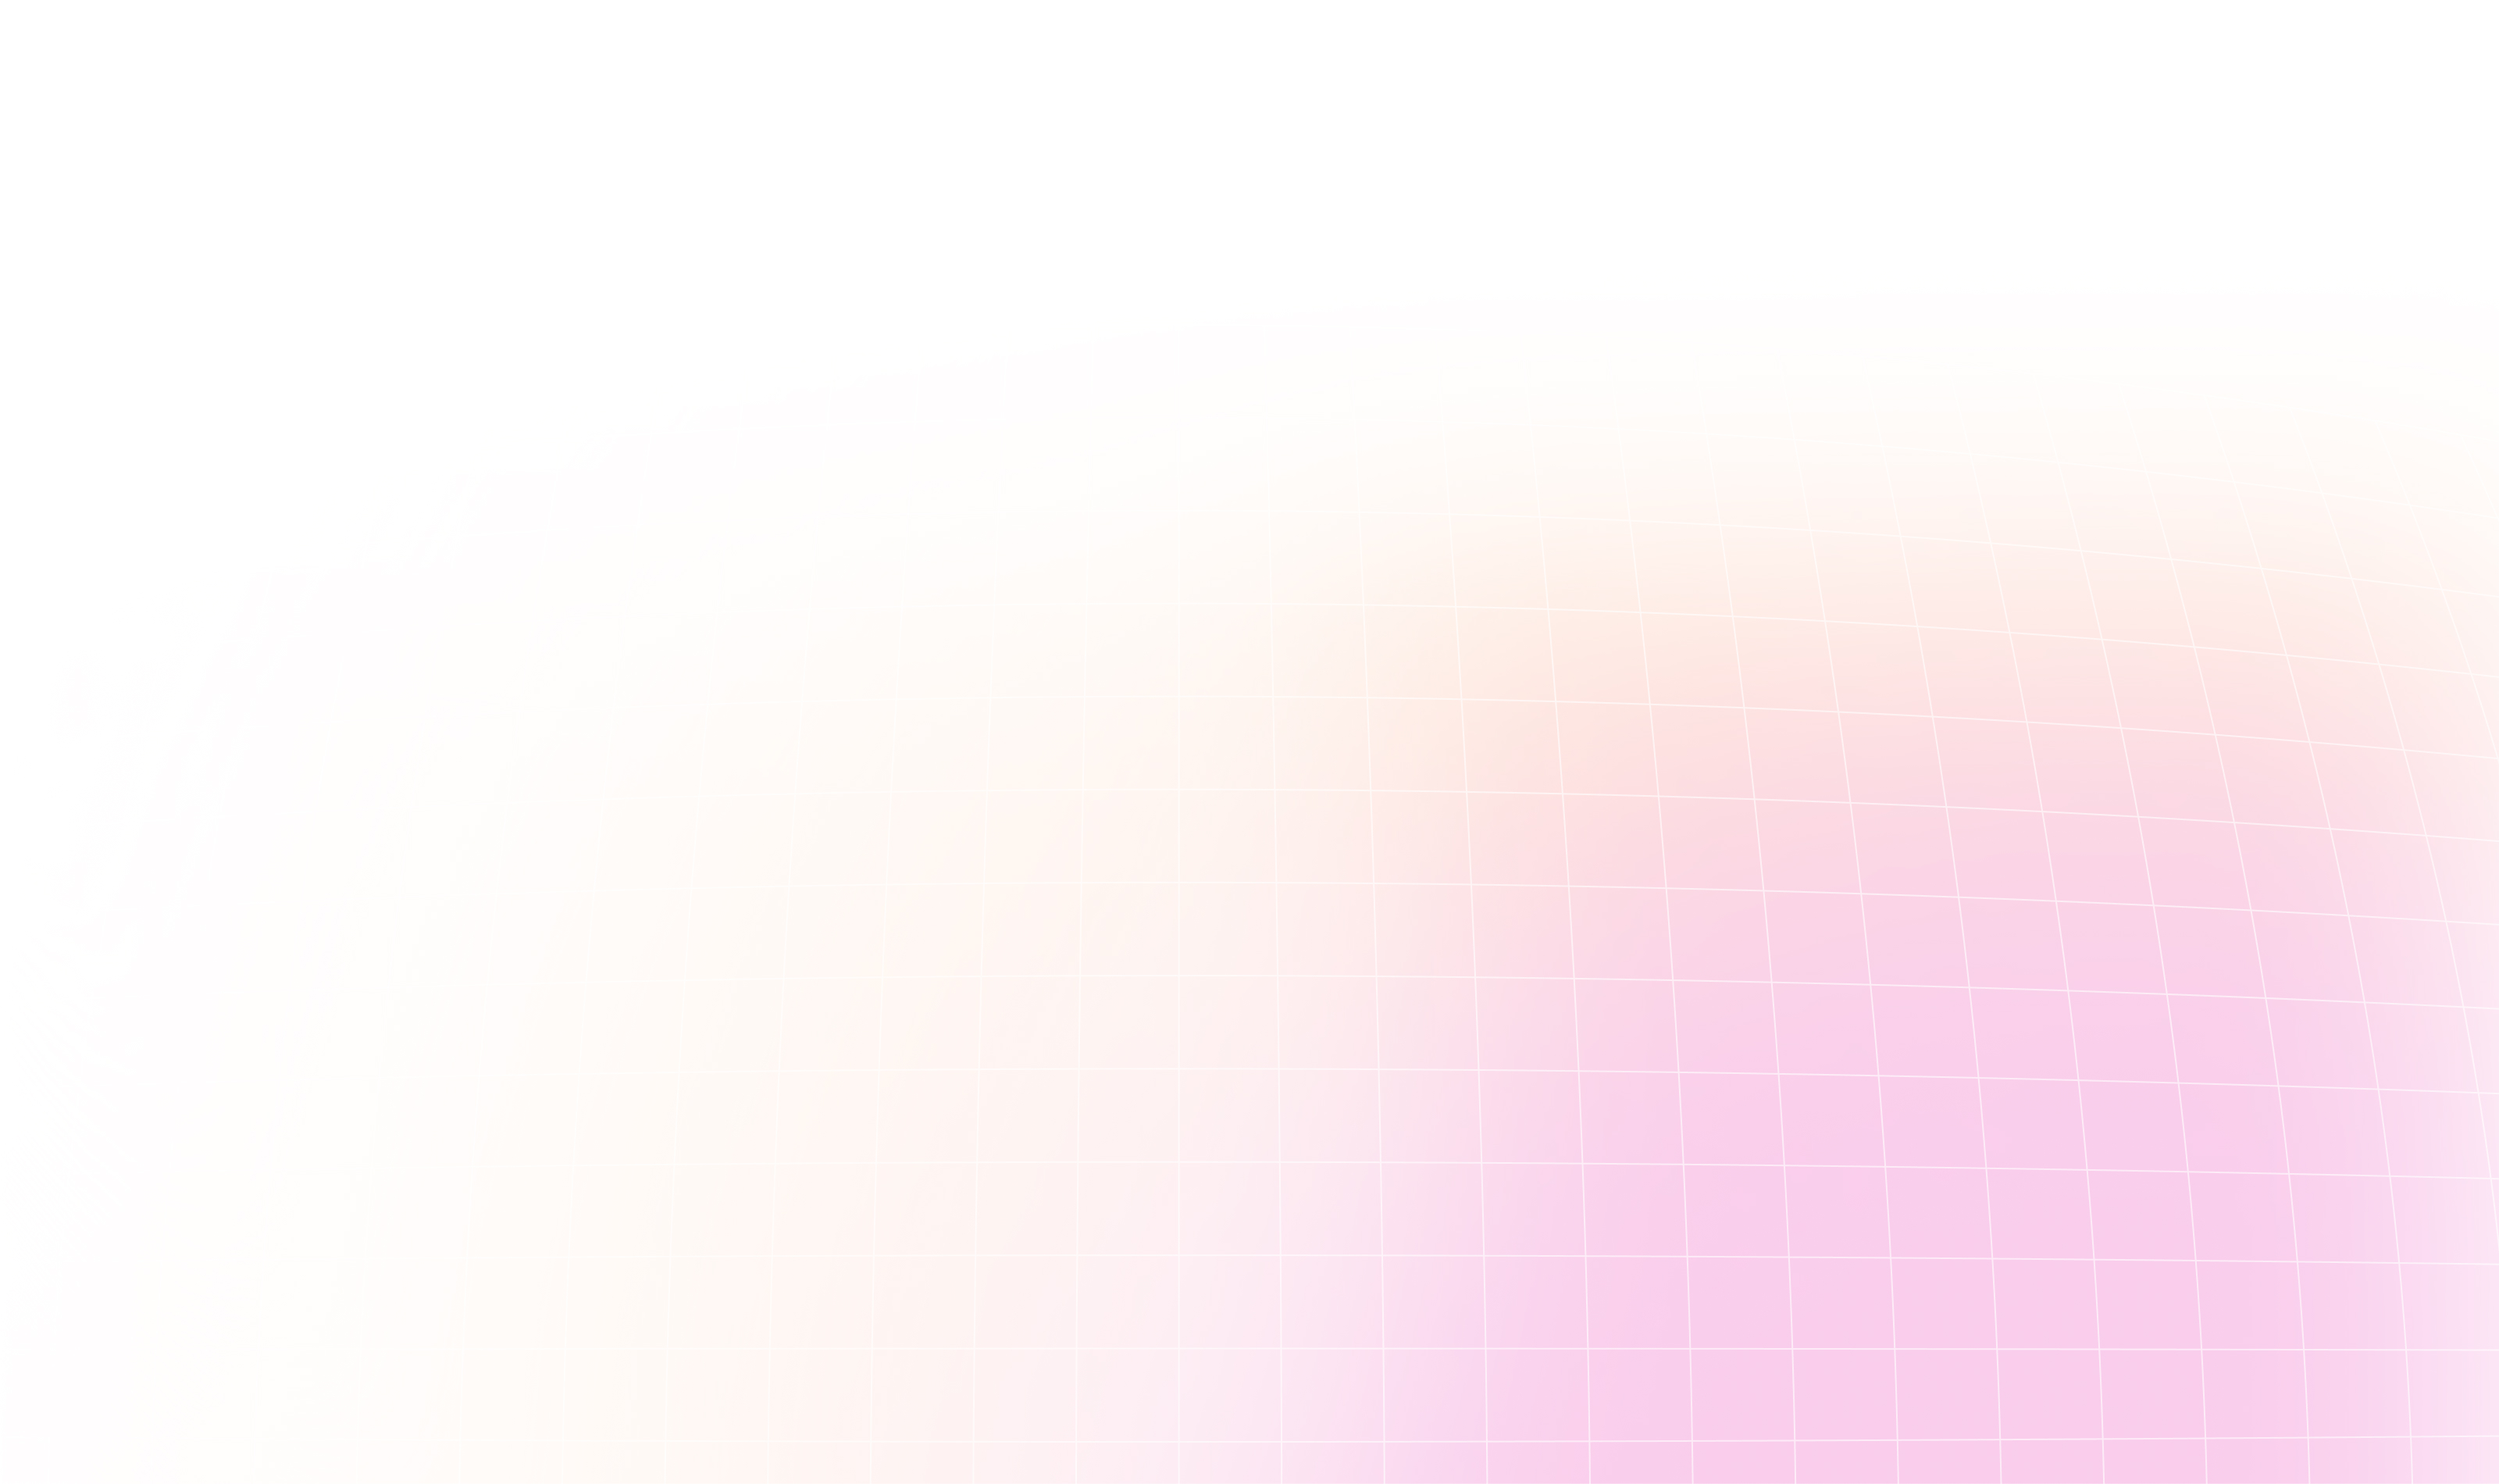
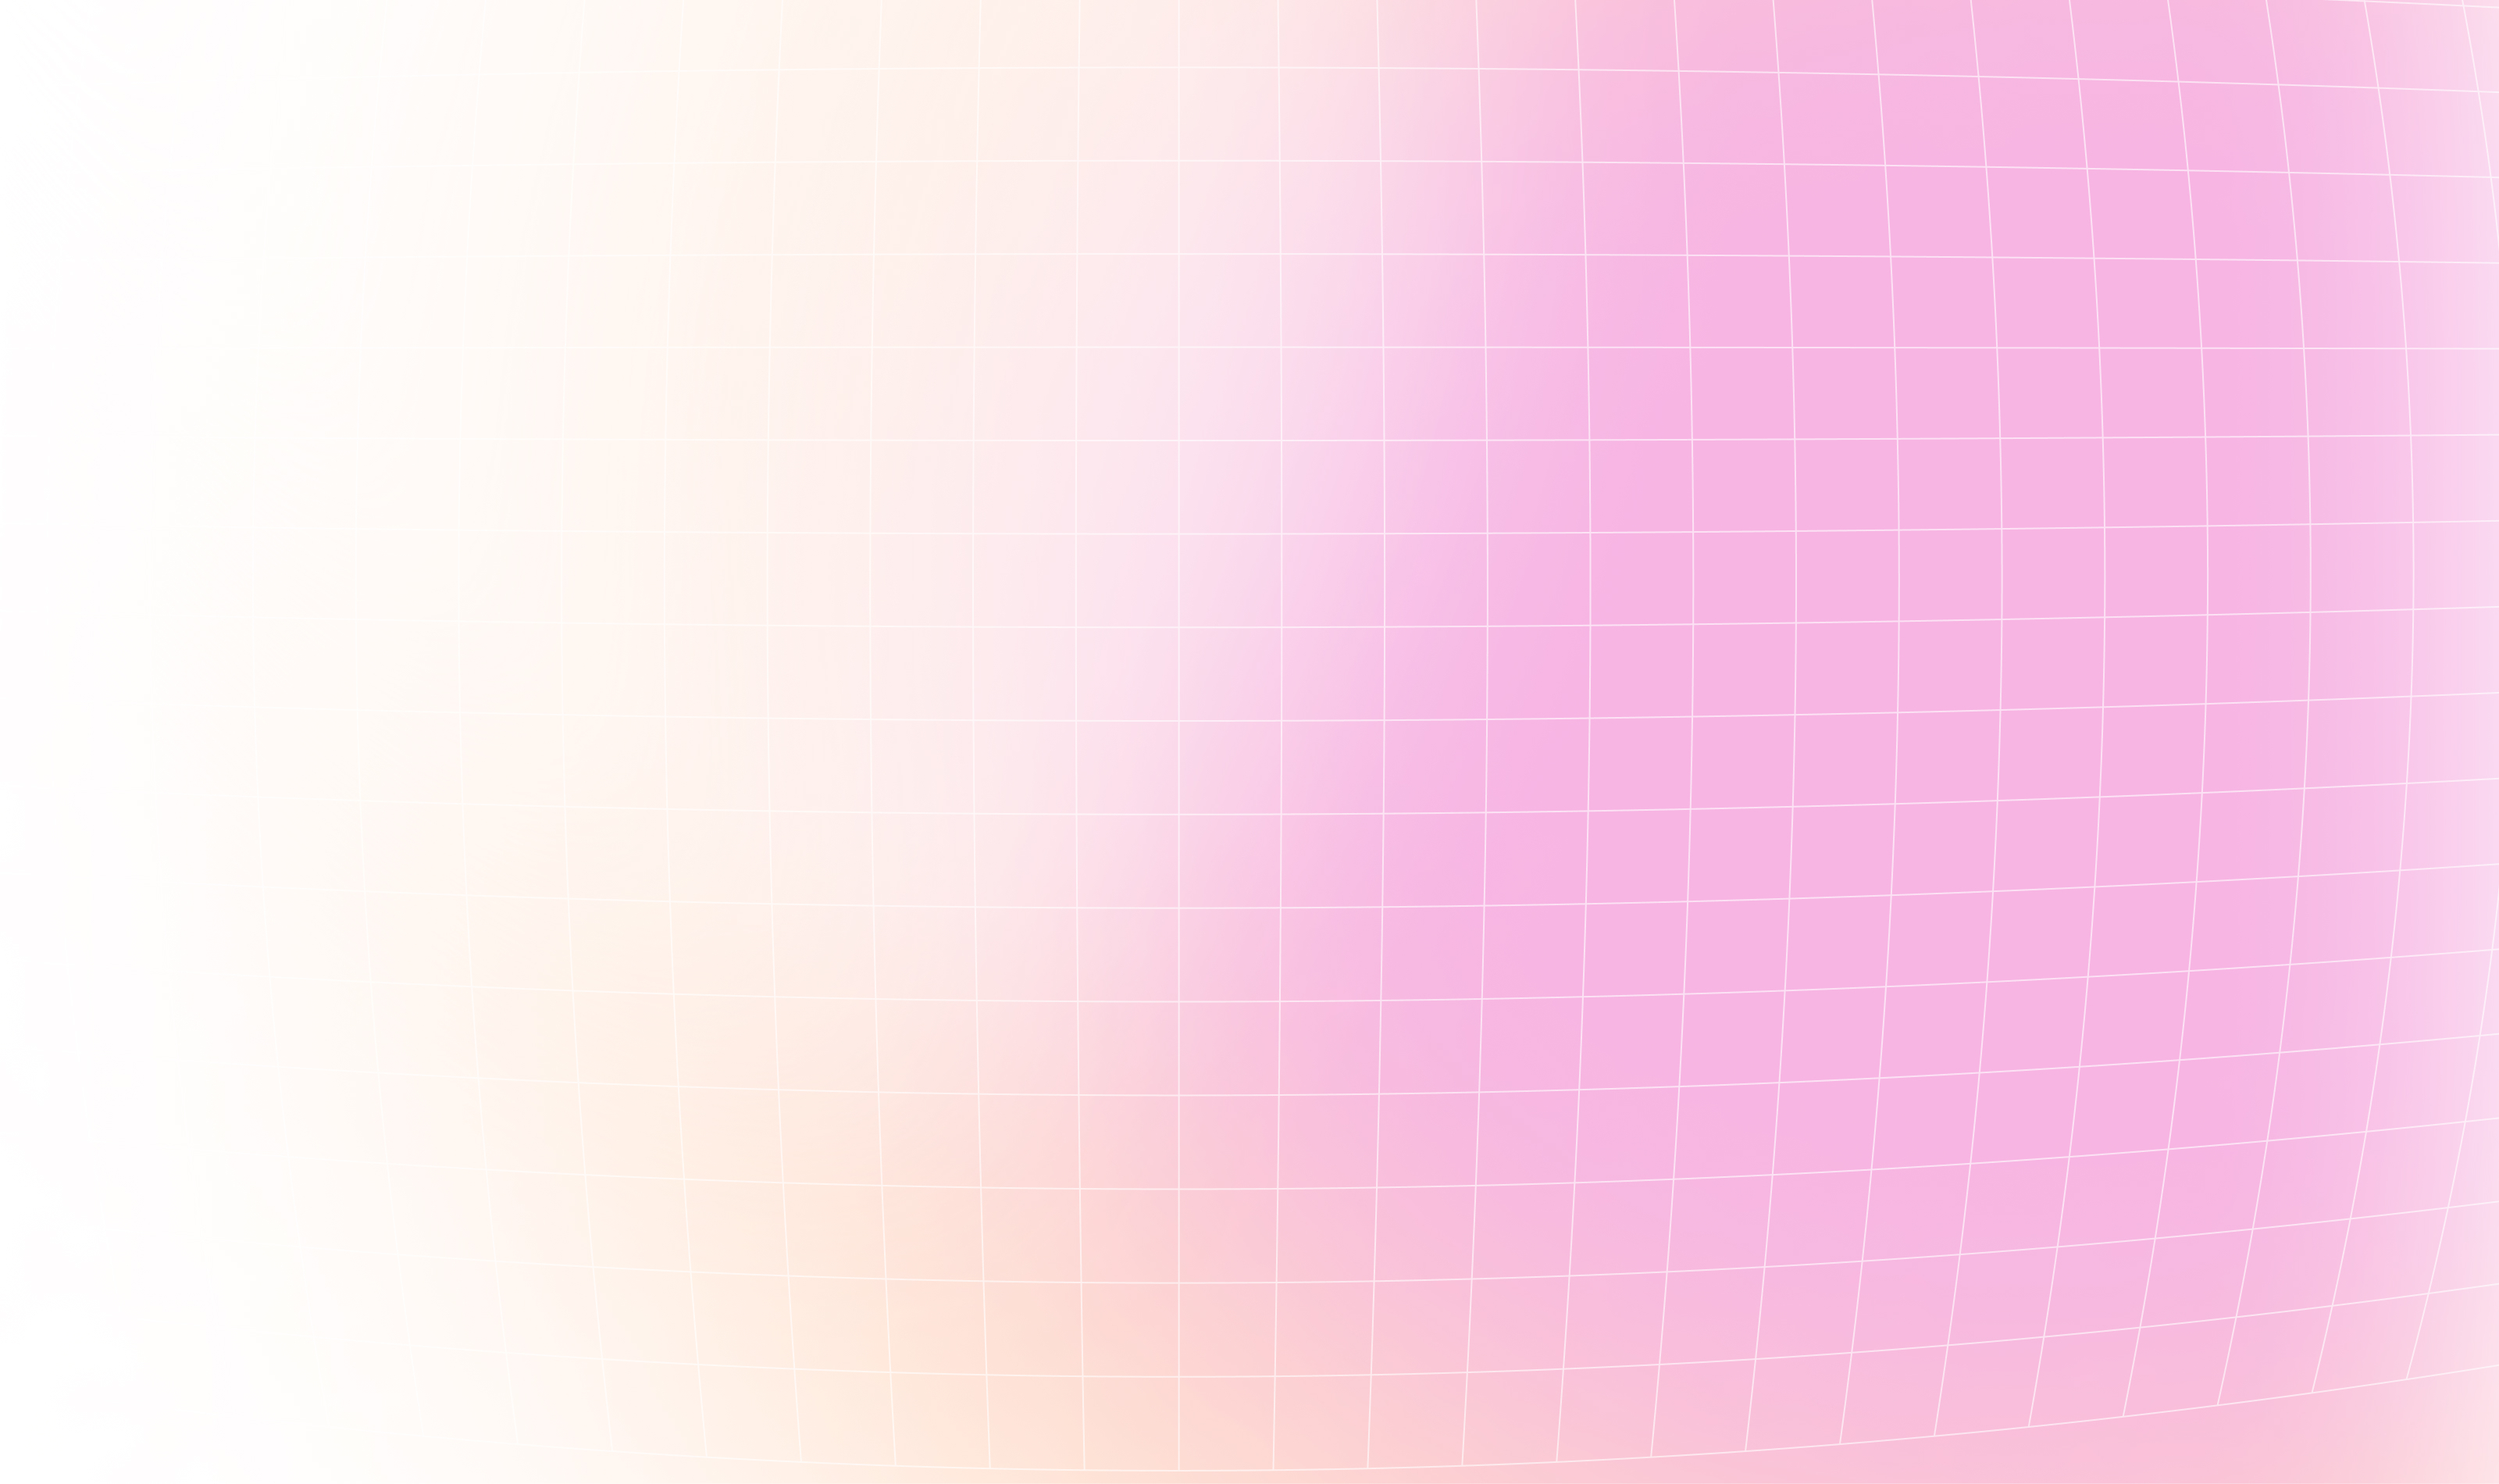
docs: update the light bg hero image

diff --git a/site/index.md b/site/index.md
@@ -8,49 +8,50 @@ description: Everything you need to build 4337 accounts for your users
 # you can also add HTML or Markdown components below the --- line to add custom HTML or Markdown content (eg: https://github.com/wagmi-dev/viem/blob/main/site/index.md?plain=1)
 ---
 
-<div class="flex flex-col gap-[84px] h-screen max-xl:gap-[40px] bg-hero-light dark:bg-hero-dark">
-  <div class="flex grow max-w-[calc(var(--vp-layout-max-width))] self-center w-[100%] px-[32px]">
-    <div class="flex flex-col flex-auto min-w-[100%]">
-      <div
-        class="flex flex-col py-[96px] max-xl:py-[40px]"
-      >
+<div class="flex flex-col h-screen">
+  <div class="w-[100%] flex flex-grow h-[100%] justify-center  bg-hero-light dark:bg-hero-dark bg-cover pb-[48px]">
+    <div class="flex grow max-w-[calc(var(--vp-layout-max-width))] w-[100%] px-[32px]">
+      <div class="flex flex-col flex-auto min-w-[100%]">
         <div
-          class="flex flex-row justify-between items-center self-stretch md:max-xl:flex-col md:max-xl:gap-[40px]"
+          class="flex flex-col py-[96px] max-xl:py-[40px]"
         >
           <div
-            class="w-[579px] flex flex-col gap-[32px] justify-between max-md:items-center"
+            class="flex flex-row justify-between items-center self-stretch md:max-xl:flex-col md:max-xl:gap-[40px]"
           >
             <div
-              class="flex flex-row items-center justify-start gap-[16px] font-bold text-[24px]"
+              class="w-[579px] flex flex-col gap-[32px] justify-between max-md:items-center"
             >
-              <img src="/kit-logo.svg" alt="Account Kit Logo" />
-              <span>Account Kit</span>
+              <div
+                class="flex flex-row items-center justify-start gap-[16px] font-bold text-[24px]"
+              >
+                <img src="/kit-logo.svg" alt="Account Kit Logo" />
+                <span>Account Kit</span>
+              </div>
+              <div
+                class="gap-[28px] text-[64px] font-bold items-end color max-md:text-center max-md:text-[56px] leading-none"
+              >
+                <span class="bg-gradient-1 bg-clip-text transparent-text-fill">Account Abstraction</span>&nbsp;Legos
+              </div>
+              <div class="text-[22px] font-normal max-md:text-center">
+                Everything you need to build 4337 accounts.
+              </div>
+              <div class="flex flex-row gap-[8px] justify-start items-center">
+                <a rel="noopener noreferrer" href="./getting-started.html">
+                  <button
+                    class="flex items-center rounded-md px-[12px] py-[12px] text-[16px] font-semibold text-white transition duration-300 ease-in-out hover:scale-105 hover:opacity-90 bg-black dark:bg-white dark:text-black"
+                  >
+                    Explore the docs
+                  </button>
+                </a>
+                <a rel="noopener noreferrer" href="./package-overview.html">
+                  <button
+                    class="flex items-center rounded-md px-[12px] py-[12px] text-[16px] font-semibold transition duration-300 ease-in-out hover:scale-105 hover:bg-black hover:text-white dark:hover:bg-white dark:hover:text-black"
+                  >
+                    Why Account Kit?
+                  </button>
+                </a>
+              </div>
             </div>
-            <div
-              class="gap-[28px] text-[64px] font-bold items-end color max-md:text-center max-md:text-[56px] leading-none"
-            >
-              <span class="bg-gradient-1 bg-clip-text transparent-text-fill">Account Abstraction</span>&nbsp;Legos
-            </div>
-            <div class="text-[22px] font-normal max-md:text-center">
-              Everything you need to build 4337 accounts.
-            </div>
-            <div class="flex flex-row gap-[8px] justify-start items-center">
-              <a rel="noopener noreferrer" href="./getting-started.html">
-                <button
-                  class="flex items-center rounded-md px-[12px] py-[12px] text-[16px] font-semibold text-white transition duration-300 ease-in-out hover:scale-105 hover:opacity-90 bg-black dark:bg-white dark:text-black"
-                >
-                  Explore the docs
-                </button>
-              </a>
-              <a rel="noopener noreferrer" href="./package-overview.html">
-                <button
-                  class="flex items-center rounded-md px-[12px] py-[12px] text-[16px] font-semibold transition duration-300 ease-in-out hover:scale-105 hover:bg-black hover:text-white dark:hover:bg-white dark:hover:text-black"
-                >
-                  Why Account Kit?
-                </button>
-              </a>
-            </div>
-          </div>
 <!-- needs to be formatted differently to work in markdown -->
 <div class="vp-doc max-lg:hidden">
 
@@ -71,51 +72,52 @@ const { hash } = await provider.sendUserOperation(uo);
 :::
 
 </div>
+          </div>
         </div>
-      </div>
-      <div class="flex max-lg:flex-wrap justify-center gap-[32px]">
-        <a rel="noopener noreferrer" href="./introduction.html" class="flex-auto basis-1/3 max-lg:max-w-[370px] max-lg:min-w-[370px]">
-          <div
-            class="flex flex-col flex-auto p-[24px] gap-[24px] rounded-md text-white overflow-auto bg-gradient-2 group hover:scale-105 hover:opacity-90 transition duration-300 ease-in-out"
-          >
-            <div class="flex flex-col gap-[8px] items-start">
-              <div class="text-[24px] font-semibold">Why Account Kit?</div>
-            </div>
+        <div class="flex max-lg:flex-wrap justify-center gap-[32px]">
+          <a rel="noopener noreferrer" href="./introduction.html" class="flex-auto basis-1/3 max-lg:max-w-[370px] max-lg:min-w-[370px]">
             <div
-              class="flex h-[24px] justify-end items-baseline self-stretch transition duration-300 ease-in-out group-hover:translate-x-[5px]"
+              class="flex flex-col flex-auto p-[24px] gap-[24px] rounded-md text-white overflow-auto bg-gradient-2 group hover:scale-105 hover:opacity-90 transition duration-300 ease-in-out"
             >
-              <img src="/arrow-right.svg" alt="Click Here" />
+              <div class="flex flex-col gap-[8px] items-start">
+                <div class="text-[24px] font-semibold">Why Account Kit?</div>
+              </div>
+              <div
+                class="flex h-[24px] justify-end items-baseline self-stretch transition duration-300 ease-in-out group-hover:translate-x-[5px]"
+              >
+                <img src="/arrow-right.svg" alt="Click Here" />
+              </div>
             </div>
-          </div>
-        </a>
-        <a rel="noopener noreferrer" href="./package-overview.html" class="flex-auto basis-1/3 max-lg:max-w-[370px] max-lg:min-w-[370px]">
-          <div
-            class="flex flex-col flex-auto p-[24px] gap-[24px] rounded-md text-white overflow-auto bg-gradient-3 group hover:scale-105 hover:opacity-90 transition duration-300 ease-in-out"
-          >
-            <div class="flex flex-col gap-[8px] items-start">
-              <div class="text-[24px] font-semibold">Overview</div>
-            </div>
+          </a>
+          <a rel="noopener noreferrer" href="./package-overview.html" class="flex-auto basis-1/3 max-lg:max-w-[370px] max-lg:min-w-[370px]">
             <div
-              class="flex h-[24px] justify-end items-baseline self-stretch transition duration-300 ease-in-out group-hover:translate-x-[5px]"
+              class="flex flex-col flex-auto p-[24px] gap-[24px] rounded-md text-white overflow-auto bg-gradient-3 group hover:scale-105 hover:opacity-90 transition duration-300 ease-in-out"
             >
-              <img src="/arrow-right.svg" alt="Click Here" />
+              <div class="flex flex-col gap-[8px] items-start">
+                <div class="text-[24px] font-semibold">Overview</div>
+              </div>
+              <div
+                class="flex h-[24px] justify-end items-baseline self-stretch transition duration-300 ease-in-out group-hover:translate-x-[5px]"
+              >
+                <img src="/arrow-right.svg" alt="Click Here" />
+              </div>
             </div>
-          </div>
-        </a>
-        <a rel="noopener noreferrer" href="./getting-started.html" class="flex-auto basis-1/3 max-lg:max-w-[370px] max-lg:min-w-[370px]">
-          <div
-            class="flex flex-col flex-auto p-[24px] gap-[24px] rounded-md text-white overflow-auto bg-gradient-4 group hover:scale-105 hover:opacity-90 transition duration-300 ease-in-out"
-          >
-            <div class="flex flex-col gap-[8px] items-start">
-              <div class="text-[24px] font-semibold">Getting Started</div>
-            </div>
+          </a>
+          <a rel="noopener noreferrer" href="./getting-started.html" class="flex-auto basis-1/3 max-lg:max-w-[370px] max-lg:min-w-[370px]">
             <div
-              class="flex h-[24px] justify-end items-baseline self-stretch transition duration-300 ease-in-out group-hover:translate-x-[5px]"
+              class="flex flex-col flex-auto p-[24px] gap-[24px] rounded-md text-white overflow-auto bg-gradient-4 group hover:scale-105 hover:opacity-90 transition duration-300 ease-in-out"
             >
-              <img src="/arrow-right.svg" alt="Click Here" />
+              <div class="flex flex-col gap-[8px] items-start">
+                <div class="text-[24px] font-semibold">Getting Started</div>
+              </div>
+              <div
+                class="flex h-[24px] justify-end items-baseline self-stretch transition duration-300 ease-in-out group-hover:translate-x-[5px]"
+              >
+                <img src="/arrow-right.svg" alt="Click Here" />
+              </div>
             </div>
-          </div>
-        </a>
+          </a>
+        </div>
       </div>
     </div>
   </div>
